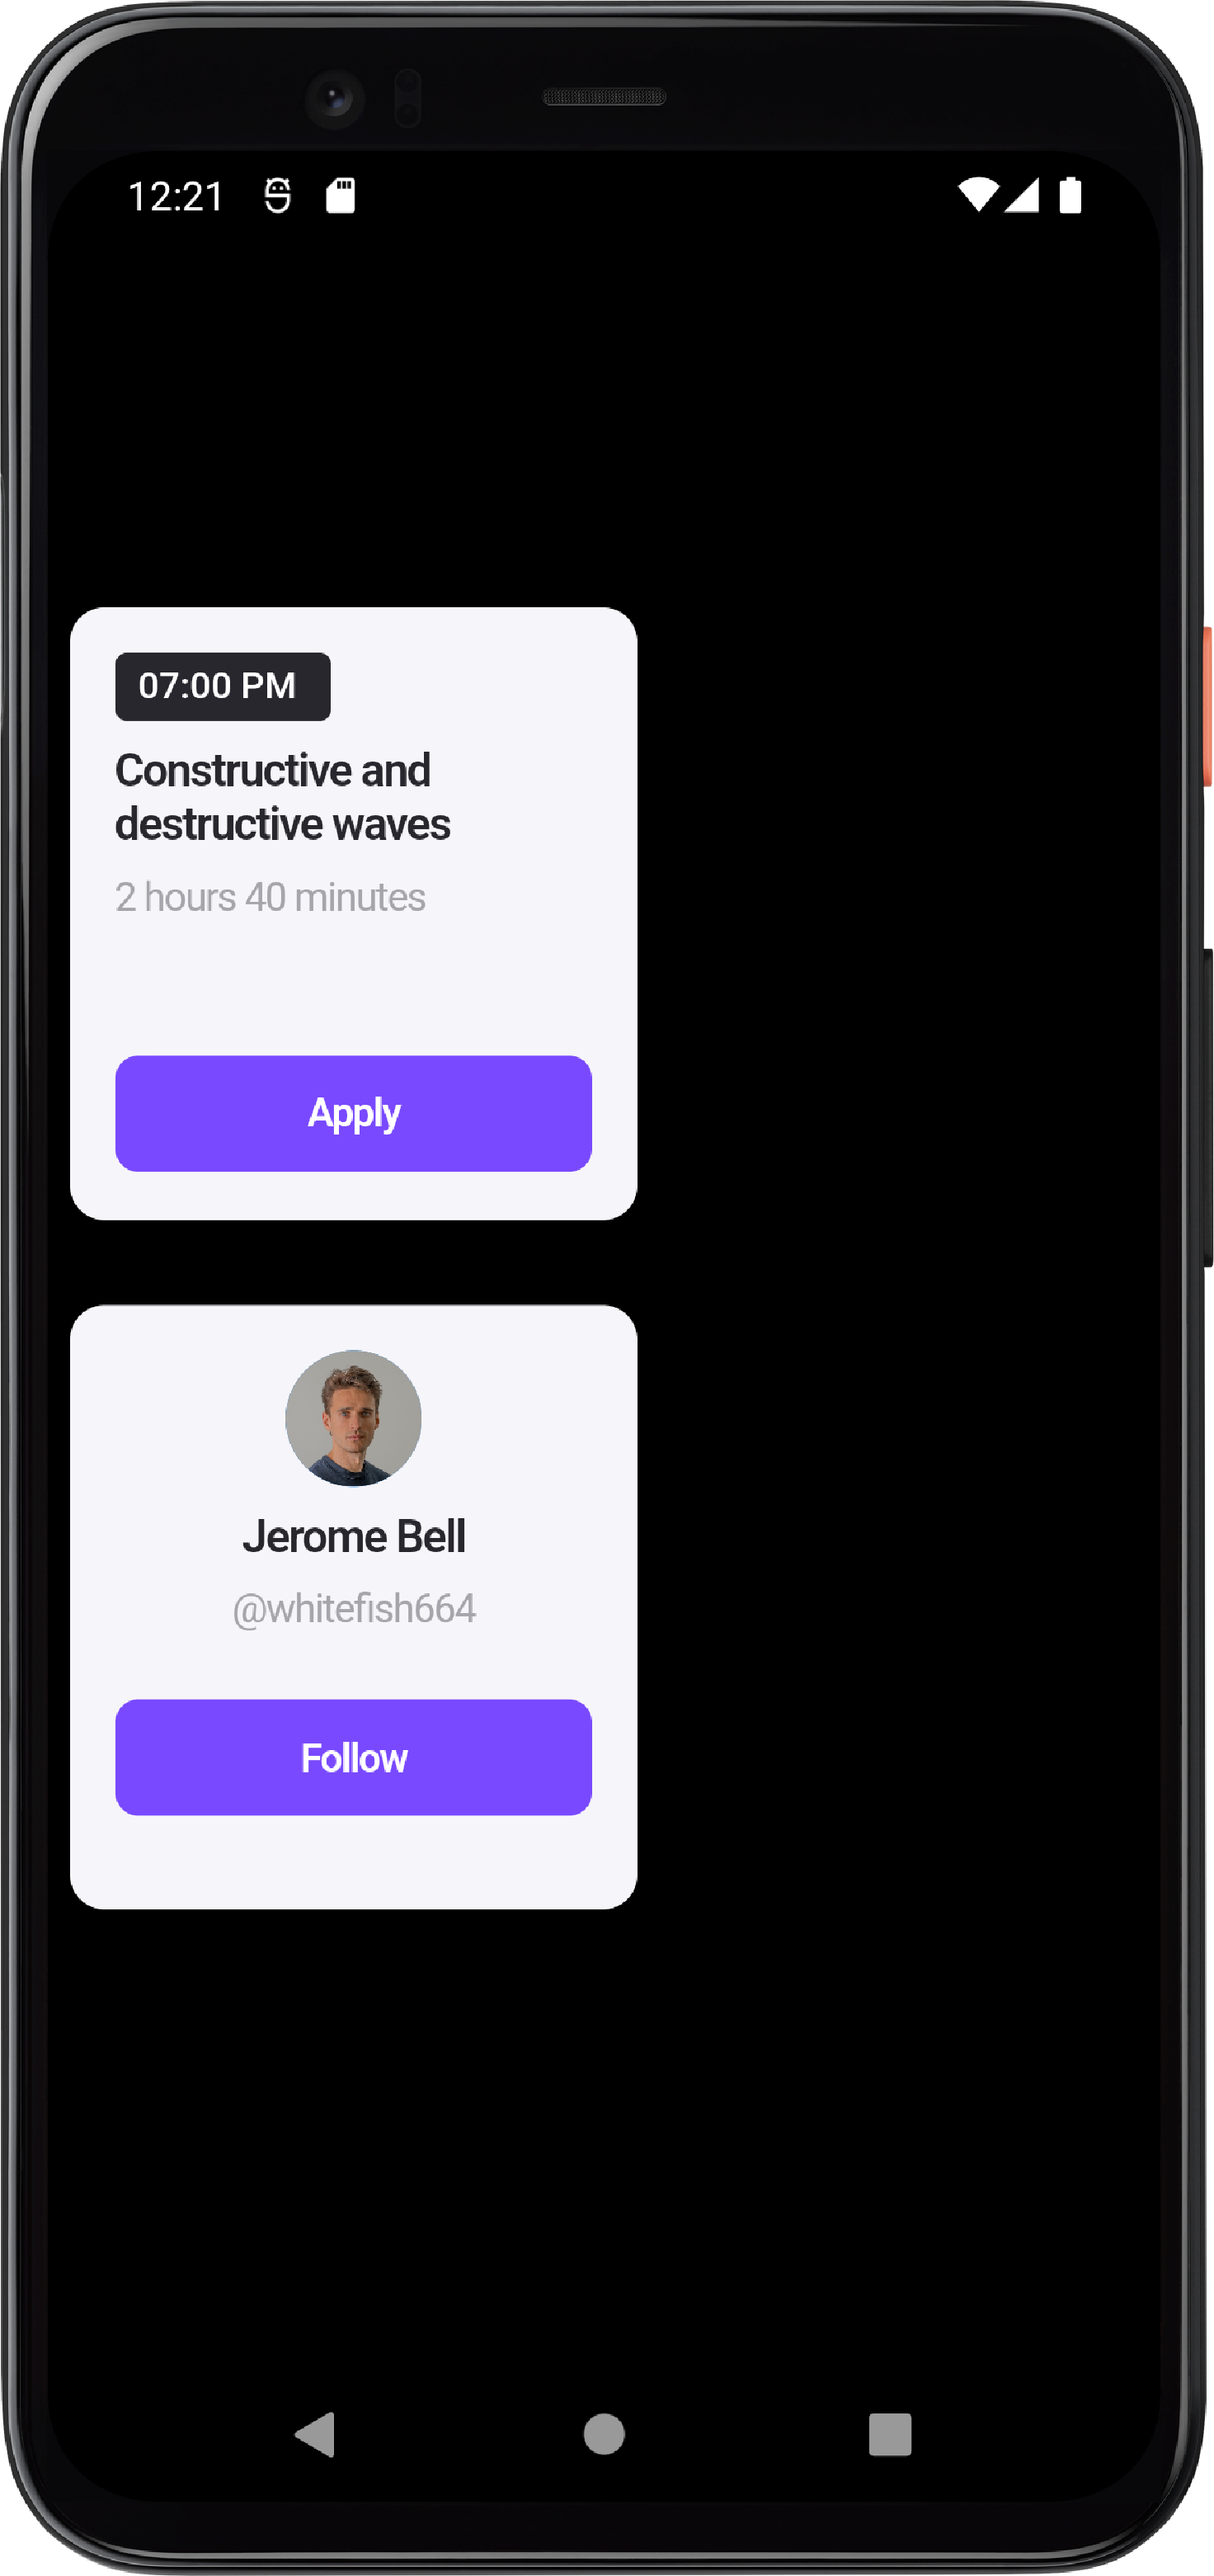
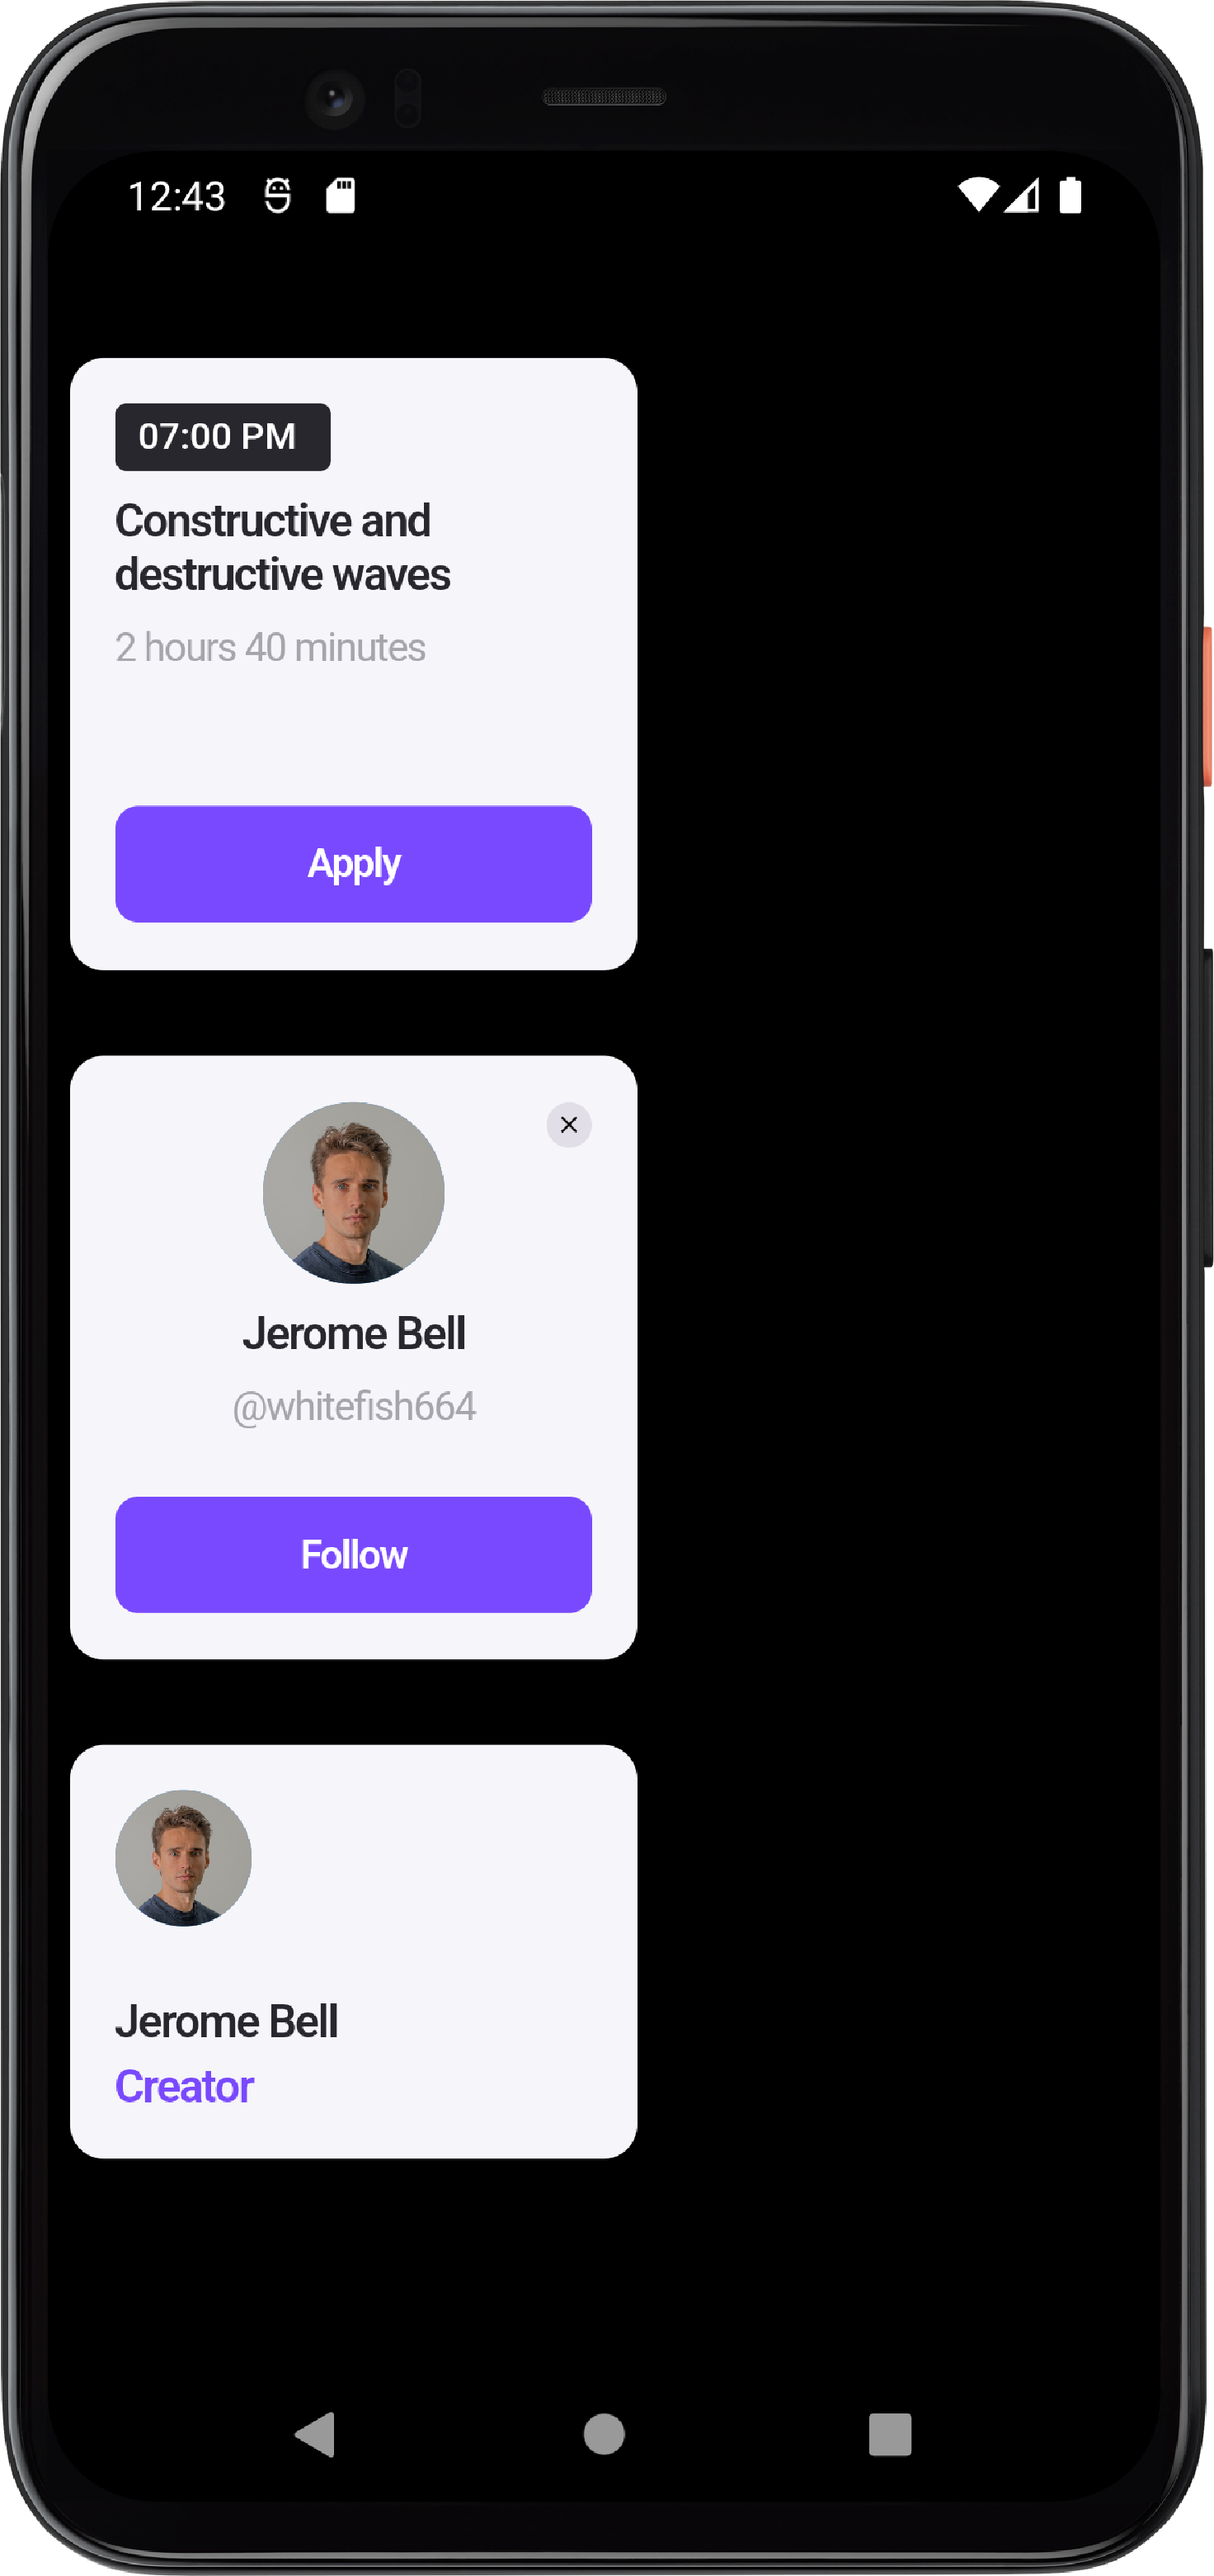
add Card 29

Changed region(s): [[0.0312, 0.1243, 0.5312, 0.8389], [0.1562, 0.0621, 0.1875, 0.0932]]

diff --git a/lib/Cards/card_28.dart b/lib/Cards/card_28.dart
@@ -16,37 +16,67 @@ class Card28 extends StatelessWidget {
         ),
       ),
       child: Column(
+        crossAxisAlignment: CrossAxisAlignment.center,
+        mainAxisAlignment: MainAxisAlignment.center,
         children: [
-          const CircleAvatar(
-            radius: 24,
-            backgroundImage: NetworkImage("https://s3-alpha-sig.figma.com/img/0e5d/8279/8e2becda16e2f3abc85e162b63a8d214?Expires=1704067200&Signature=m-pJeD~ylRMmgirPNxn9wu78ryYRNN8xngruQYngKINrixxDESYinftuHmb~9F~CQx2-GdfV0fRs~X1gW2IB-8IEFU-hF5Nv4Vw8c5MVQzGuGDP31efhIiT8l2QzxZxlLRjIuiX3d3HugZ-ov6JJOKYiDLhrABDu5PCiB4dxip93zNbONILiQ2RQwz-pibJOhAZvQ1oQ2FPLj26KbmdVBFvon~t8h79qZstV8eKeox0~v4h71uFRIFMDQKJ8WlqJq~s~exK9JZq7QXazdc9V9UXjd92~JacRpjPS4kG896j8dtbbDlvJCFghb9Fb81W~L8WclNPcC1bRWNRT1RwMjA__&Key-Pair-Id=APKAQ4GOSFWCVNEHN3O4"),
-          ),
-          const Gap(8),
-          const Text(
-            'Jerome Bell',
-            textAlign: TextAlign.center,
-            style: TextStyle(
-              color: Color(0xFF29272E),
-              fontSize: 16,
-              fontFamily: 'Inter',
-              fontWeight: FontWeight.w600,
-              height: 0,
-              letterSpacing: -0.64,
-            ),
-          ),
-          const Gap(8),
-          const Text(
-            '@whitefish664',
-            textAlign: TextAlign.center,
-            style: TextStyle(
-              color: Color(0xFFA7A5AC),
-              fontSize: 14,
-              fontFamily: 'Inter',
-              fontWeight: FontWeight.w400,
-              height: 0,
-              letterSpacing: -0.56,
-            ),
-          ),
+          Stack(
+            children: [
+              const SizedBox(
+                width: double.infinity,
+                child: Column(
+                  mainAxisAlignment: MainAxisAlignment.center,
+                  crossAxisAlignment: CrossAxisAlignment.center,
+                  children: [
+                    CircleAvatar(
+                      radius: 32,
+                      backgroundImage: NetworkImage("https://s3-alpha-sig.figma.com/img/0e5d/8279/8e2becda16e2f3abc85e162b63a8d214?Expires=1704067200&Signature=m-pJeD~ylRMmgirPNxn9wu78ryYRNN8xngruQYngKINrixxDESYinftuHmb~9F~CQx2-GdfV0fRs~X1gW2IB-8IEFU-hF5Nv4Vw8c5MVQzGuGDP31efhIiT8l2QzxZxlLRjIuiX3d3HugZ-ov6JJOKYiDLhrABDu5PCiB4dxip93zNbONILiQ2RQwz-pibJOhAZvQ1oQ2FPLj26KbmdVBFvon~t8h79qZstV8eKeox0~v4h71uFRIFMDQKJ8WlqJq~s~exK9JZq7QXazdc9V9UXjd92~JacRpjPS4kG896j8dtbbDlvJCFghb9Fb81W~L8WclNPcC1bRWNRT1RwMjA__&Key-Pair-Id=APKAQ4GOSFWCVNEHN3O4"),
+                    ),
+                    Gap(8),
+                    Text(
+                      'Jerome Bell',
+                      textAlign: TextAlign.center,
+                      style: TextStyle(
+                        color: Color(0xFF29272E),
+                        fontSize: 16,
+                        fontFamily: 'Inter',
+                        fontWeight: FontWeight.w600,
+                        height: 0,
+                        letterSpacing: -0.64,
+                      ),
+                    ),
+                    Gap(8),
+                    Text(
+                      '@whitefish664',
+                      textAlign: TextAlign.center,
+                      style: TextStyle(
+                        color: Color(0xFFA7A5AC),
+                        fontSize: 14,
+                        fontFamily: 'Inter',
+                        fontWeight: FontWeight.w400,
+                        height: 0,
+                        letterSpacing: -0.56,
+                      ),
+                    ),
+                  ],
+                ),
+              ),
+              Positioned(
+                right: 0,
+                top: 0,
+                child: Container(
+                  height: 16,
+                  width: 16,
+                  decoration: const BoxDecoration(
+                      color: Color(0xFFE1DEE8),
+                    shape: BoxShape.circle
+                  ),
+                  child: const Icon(Icons.close, color: Colors.black, size: 10,),
+                ),
+              )
+            ],
+          )
+         ,
+
           const Gap(24),
           Container(
             width: 168,

diff --git a/lib/Cards/card_29.dart b/lib/Cards/card_29.dart
@@ -1,0 +1,53 @@
+import 'package:flutter/material.dart';
+import 'package:gap/gap.dart';
+class Card29 extends StatelessWidget {
+  const Card29({Key? key}) : super(key: key);
+
+  @override
+  Widget build(BuildContext context) {
+    return Container(
+      width: 200,
+      height: 146,
+      padding: const EdgeInsets.all(16),
+      decoration: ShapeDecoration(
+        color: const Color(0xFFF6F5F9),
+        shape: RoundedRectangleBorder(
+          borderRadius: BorderRadius.circular(12),
+        ),
+      ),
+      child: const Column(
+        crossAxisAlignment: CrossAxisAlignment.start,
+        children: [
+          CircleAvatar(
+            radius: 24,
+            backgroundImage: NetworkImage("https://s3-alpha-sig.figma.com/img/0e5d/8279/8e2becda16e2f3abc85e162b63a8d214?Expires=1704067200&Signature=m-pJeD~ylRMmgirPNxn9wu78ryYRNN8xngruQYngKINrixxDESYinftuHmb~9F~CQx2-GdfV0fRs~X1gW2IB-8IEFU-hF5Nv4Vw8c5MVQzGuGDP31efhIiT8l2QzxZxlLRjIuiX3d3HugZ-ov6JJOKYiDLhrABDu5PCiB4dxip93zNbONILiQ2RQwz-pibJOhAZvQ1oQ2FPLj26KbmdVBFvon~t8h79qZstV8eKeox0~v4h71uFRIFMDQKJ8WlqJq~s~exK9JZq7QXazdc9V9UXjd92~JacRpjPS4kG896j8dtbbDlvJCFghb9Fb81W~L8WclNPcC1bRWNRT1RwMjA__&Key-Pair-Id=APKAQ4GOSFWCVNEHN3O4"),
+          ),
+          Gap(24),
+          Text(
+            'Jerome Bell',
+            style: TextStyle(
+              color: Color(0xFF29272E),
+              fontSize: 16,
+              fontFamily: 'Inter',
+              fontWeight: FontWeight.w600,
+              height: 0,
+              letterSpacing: -0.64,
+            ),
+          ),
+          Gap(4),
+          Text(
+            'Creator',
+            style: TextStyle(
+              color: Color(0xFF7949FF),
+              fontSize: 16,
+              fontFamily: 'Inter',
+              fontWeight: FontWeight.w600,
+              height: 0,
+              letterSpacing: -0.64,
+            ),
+          )
+        ],
+      ),
+    );
+  }
+}

diff --git a/lib/Screens/view_11.dart b/lib/Screens/view_11.dart
@@ -1,6 +1,7 @@
 import 'package:flutter/material.dart';
 import 'package:flutter_ui_card_collections/Cards/card_27.dart';
 import 'package:flutter_ui_card_collections/Cards/card_28.dart';
+import 'package:flutter_ui_card_collections/Cards/card_29.dart';
 import 'package:gap/gap.dart';
 class View11 extends StatelessWidget {
   const View11({Key? key}) : super(key: key);
@@ -16,7 +17,9 @@ class View11 extends StatelessWidget {
           children: [
             Card27(),
             Gap(30),
-            Card28()
+            Card28(),
+            Gap(30),
+            Card29()
 
           ],
         ),
